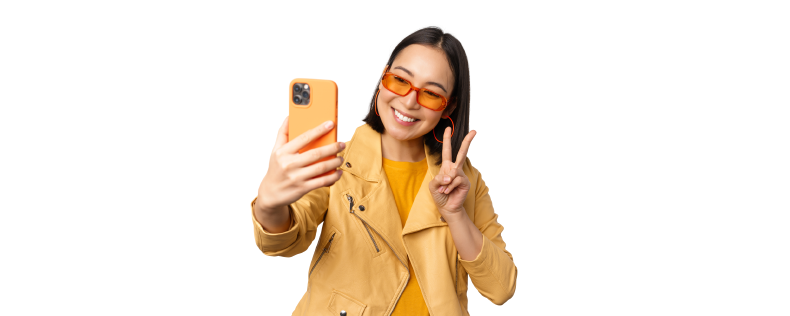
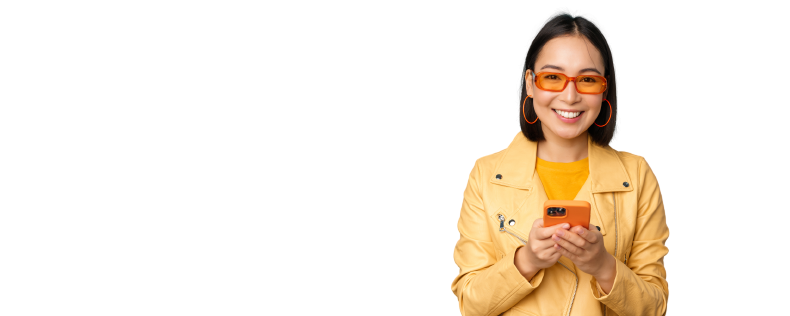
added landing page

diff --git a/src/features/landing-page/banner/components/poster/index.tsx b/src/features/landing-page/banner/components/poster/index.tsx
@@ -1,29 +1,56 @@
-import "react-responsive-carousel/lib/styles/carousel.min.css"; // requires a loader
-import { Carousel } from "react-responsive-carousel";
-import LikePic from "../../assets/like.png";
-import HappyPic from "../../assets/happy.png";
-import Selfie from "../../assets/selfie.png";
 import Image from "next/image";
+import { Carousel } from "react-responsive-carousel";
+import "react-responsive-carousel/lib/styles/carousel.min.css"; // requires a loader
+import HappyPic from "../../assets/happy.png";
+import LikePic from "../../assets/like.png";
 const Poster = () => {
   return (
-    <Carousel
-      showIndicators={false}
-      showArrows={false}
-      showThumbs={false}
-      showStatus={false}
-      autoPlay
-      infiniteLoop
+    <div
+      style={{
+        display: "flex",
+        alignItems: "center",
+        justifyContent: "center",
+        backgroundColor: "orange",
+        borderRadius: "20px",
+      }}
     >
-      <div>
-        <Image alt="Like Pic" src={LikePic} height={600} width={600} />
-      </div>
-      <div>
-        <Image alt="Happy Pic" src={HappyPic} height={600} width={600} />
-      </div>
-      <div>
-        <Image alt="Selfie" src={Selfie} height={600} width={600} />
-      </div>
-    </Carousel>
+      <Carousel
+        showIndicators={false}
+        showArrows={false}
+        showThumbs={false}
+        showStatus={false}
+        autoPlay
+        infiniteLoop
+      >
+        <div>
+          <Image
+            quality={100}
+            alt="Like"
+            src={LikePic}
+            height={600}
+            width={600}
+          />
+        </div>
+        <div>
+          <Image
+            quality={100}
+            alt="Happy"
+            src={HappyPic}
+            height={600}
+            width={600}
+          />
+        </div>
+        {/*   <div>
+        <Image
+          quality={100}
+          alt="Selfie"
+          src={Selfie}
+          height={600}
+          width={600}
+        />
+      </div> */}
+      </Carousel>
+    </div>
   );
 };
 

diff --git a/src/layouts/public-layout/index.tsx b/src/layouts/public-layout/index.tsx
@@ -1,12 +1,20 @@
-import { PageTitle } from "common";
 import Navbar from "layouts/navbar";
+import Head from "next/head";
 import { ChildrenType } from "types";
 import styles from "./public-layout.module.scss";
 
-const PublicLayout = ({ children }: ChildrenType) => {
+interface PublicLayoutProps extends ChildrenType {
+  title?: string;
+}
+const PublicLayout = ({ title, children }: PublicLayoutProps) => {
   return (
     <main className={styles.root}>
-      <PageTitle />
+      <Head>
+        {title ? <title>{`Insta | ${title}`}</title> : <title>Insta</title>}
+        <meta name="description" content="Generated by create next app" />
+        <meta name="viewport" content="width=device-width, initial-scale=1" />
+        <link rel="icon" href="/favicon.ico" />
+      </Head>
       <Navbar />
       {children}
     </main>

diff --git a/src/features/landing-page/banner/banner.module.scss b/src/features/landing-page/banner/banner.module.scss
@@ -1,6 +1,5 @@
 @import "scss/utils/mixins";
 .root {
-  border: 3px solid green;
   display: flex;
   flex-direction: column;
   align-items: center;
@@ -9,11 +8,9 @@
   }
 }
 .slogan {
-  border: 3px solid yellow;
   flex: 50%;
 }
 .banner {
-  border: 3px solid red;
   display: none;
   @include lg() {
     display: inline-block;

diff --git a/src/pages/auth/signin.tsx b/src/pages/auth/signin.tsx
@@ -1,5 +1,11 @@
+import PublicLayout from "layouts/public-layout";
+import { ReactElement } from "react";
+
 const Signin = () => {
   return <div>Signin</div>;
 };
 
+Signin.getLayout = (page: ReactElement) => {
+  return <PublicLayout title="Signin">{page}</PublicLayout>;
+};
 export default Signin;

diff --git a/src/features/auth/signin/index.tsx b/src/features/auth/signin/index.tsx
@@ -1,0 +1,9 @@
+import PublicLayout from "layouts/public-layout";
+
+const Signin = () => {
+  return <PublicLayout>Signin</PublicLayout>;
+};
+
+Signin.propTypes = {};
+
+export default Signin;

diff --git a/src/layouts/public-layout/public-layout.module.scss b/src/layouts/public-layout/public-layout.module.scss
@@ -1,7 +1,6 @@
 @import "scss/utils/mixins";
 @import "scss/utils/colors";
 .root {
-  border: 3px solid blue;
   padding: 1rem;
   @include lg() {
     padding: 0 8rem;

diff --git a/src/layouts/navbar/navbar.module.scss b/src/layouts/navbar/navbar.module.scss
@@ -5,7 +5,6 @@
   display: flex;
   align-items: center;
   background-color: transparent;
-  border: 3px solid red;
 }
 .logo {
   flex: 60%;

diff --git a/src/scss/main.scss b/src/scss/main.scss
@@ -6,3 +6,6 @@ body {
   font-family: $OPEN_SANS;
   font-size: medium;
 }
+html {
+  scroll-behavior: smooth;
+}

diff --git a/src/features/landing-page/services/index.tsx b/src/features/landing-page/services/index.tsx
@@ -1,0 +1,5 @@
+const Services = () => {
+  return <div>Services</div>;
+};
+
+export default Services;
